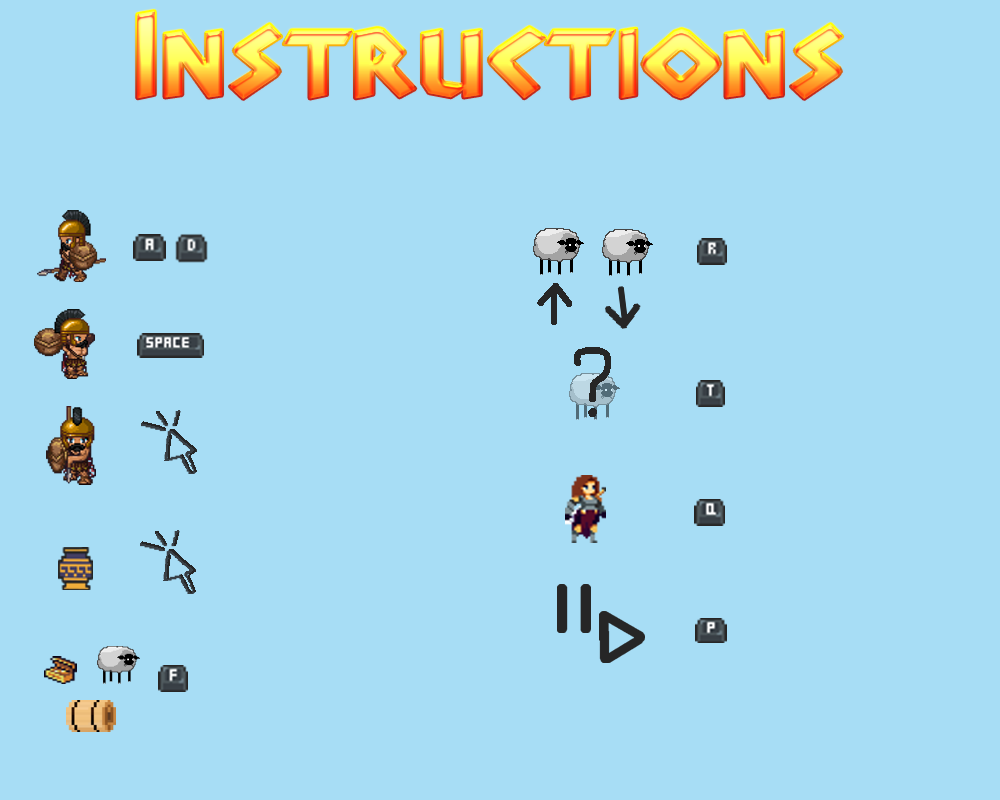
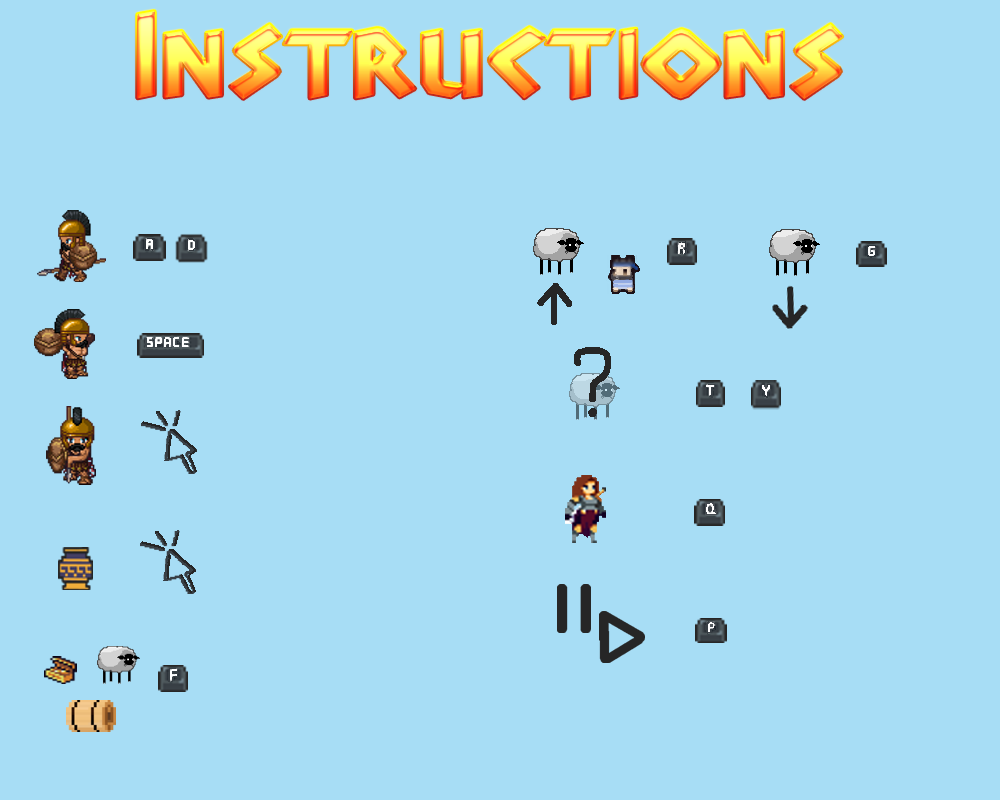
bug fix: instructions screen

diff --git a/roadmap.md b/roadmap.md
@@ -646,14 +646,13 @@ Next/TO DO:
 * make mini-map stick to bound
 
 ### Date: 05/03/26
-**fix respawn after death**
+**update and improve insturctions screen**
 ......
 **Implementation**
 *Technical Plan/Credit*: N/A
 *Content Credit*: N/A
-**bug fix: respawn position after death**
+**bug fix: instructions screen**
 .......
 Next/TO DO:
-* Improve instructions screen
 * Refactor and clean code
 * Refactor collision code to be shared between levels
